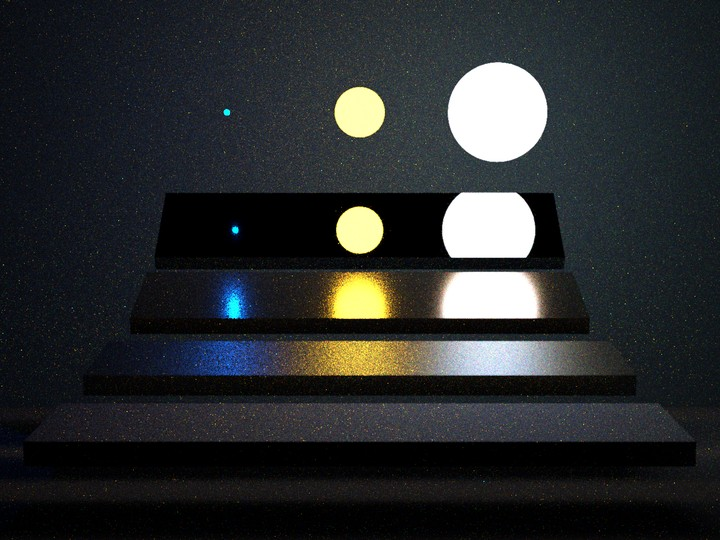
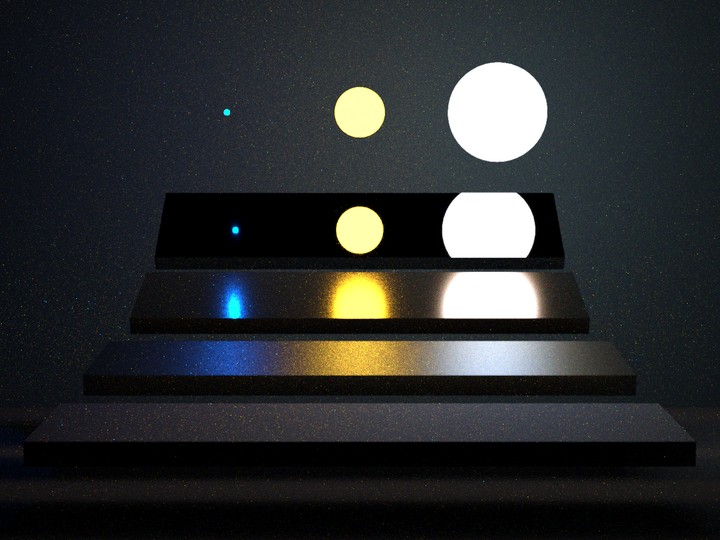
Re-render the GPU gallery with more samples
Every gallery image is re-rendered on c3ffba8 with 4-32x the samples, so little noise remains, and every gallery time (and the sionna_munich time in the performance notes) is re-measured on that build.

Changed region(s): [[0.275, 0.6222, 0.5806, 0.7111], [0.4278, 0.5037, 0.55, 0.5926], [0.3056, 0.5037, 0.3667, 0.5926]]

diff --git a/docs/source/gpu/gallery.rst b/docs/source/gpu/gallery.rst
@@ -3,8 +3,8 @@ Gallery
 =======================================
 
 Scenes rendered on the GPU (an NVIDIA GB10, CUDA + OptiX build), with their render times, as the command line reports them (``Elapsed``).
-The images are the renders' tonemapped outputs, downscaled for this page, unless noted.
-The times of the renders with beams of ``cornell-box/box.xml``, ``sphere_polarization``, ``colourchecker`` and ``bidir_room`` are since the CPU traces the heaviest re-traced paths (``c3ffba8``; see :doc:`performance`), which changes their images only by rounding.
+The images are the renders' tonemapped outputs, downscaled for this page, unless noted, rendered with many samples so that little noise remains.
+All the renders and times are from ``c3ffba8``, where the CPU traces the heaviest re-traced paths (see :doc:`performance`).
 To render one, run, from the repository's root:
 
 .. code-block:: sh
@@ -27,33 +27,33 @@ Scenes of ``scenes/``
    * - ``veach_mis/mis.xml``
      - backward ``plt_path``, beams
      - 1440×1080, RGB
-     - 128
-     - 10.1 s
+     - 512
+     - 39.5 s
    * - ``sionna_etoile/etoile.xml``
      - forward ``plt_path``, beams
      - 1024×768 coverage, 1 GHz
-     - 512
-     - 32.7 s
+     - 2048
+     - 132 s
    * - ``sionna_etoile/etoile.xml`` ``-D optical_preview=true``
      - backward ``plt_path``, beams
      - 512×288, RGB
-     - 64
-     - 1.13 s
+     - 1024
+     - 17.4 s
    * - ``sionna_munich/munich.xml``
      - forward ``plt_path``, beams
      - 960×633 coverage, 1 GHz
      - 128
-     - 18.8 s
+     - 15.6 s
    * - ``diffraction_simple/double_slits.xml``
      - forward ``plt_path``, beams
      - 1024×256, 50 µm
-     - 32
-     - 1.75 s
+     - 256
+     - 13.9 s
    * - ``cornell-box/box.xml``
      - ``plt_bdpt``, rays
      - 512×512, RGB
-     - 256
-     - 5.77 s
+     - 4096
+     - 93.1 s
    * - ``cornell-box/box.xml``
      - ``plt_bdpt``, beams
      - 256×256, RGB
@@ -62,13 +62,13 @@ Scenes of ``scenes/``
    * - ``cornell-box/sphere_polarization.xml``
      - ``plt_bdpt``, rays
      - 384×384, Stokes
-     - 256
-     - 4.44 s
+     - 4096
+     - 70.1 s
    * - ``cornell-box/sphere_polarization.xml``
      - ``plt_bdpt``, beams
      - 192×192, Stokes
-     - 16
-     - 20.7 s
+     - 128
+     - 166 s
    * - ``colourchecker/colourchecker.xml``
      - backward ``plt_path``, beams
      - 192×144, Stokes
@@ -84,25 +84,25 @@ Scenes of ``scenes/``
    :width: 90%
    :align: center
 
-   ``veach_mis``: 1440×1080, 128 samples per pixel, beams, 10.1 s.
+   ``veach_mis``: 1440×1080, 512 samples per pixel, beams, 39.5 s.
 
 .. figure:: ../_static/gpu/etoile_coverage.jpg
    :width: 80%
    :align: center
 
-   ``sionna_etoile``: a 1 GHz coverage map (dB) of an 840 m wide area, 1024×768, 512 samples per element, beams, 32.7 s.
+   ``sionna_etoile``: a 1 GHz coverage map (dB) of an 840 m wide area, 1024×768, 2048 samples per element, beams, 132 s.
 
 .. figure:: ../_static/gpu/etoile_preview.jpg
    :width: 80%
    :align: center
 
-   ``sionna_etoile``, its optical preview: 512×288, 64 samples per pixel, beams, 1.13 s.
+   ``sionna_etoile``, its optical preview: 512×288, 1024 samples per pixel, beams, 17.4 s.
 
 .. figure:: ../_static/gpu/double_slits.png
    :width: 90%
    :align: center
 
-   ``diffraction_simple/double_slits``: the interference pattern (dB) of a double slit, 1024×256, 32 samples per element, beams, 1.75 s.
+   ``diffraction_simple/double_slits``: the interference pattern (dB) of a double slit, 1024×256, 256 samples per element, beams, 13.9 s.
 
 .. grid:: 1 2 3 3
    :gutter: 2
@@ -110,24 +110,24 @@ Scenes of ``scenes/``
    .. grid-item-card:: ``cornell-box/box.xml``, ray tracing
       :img-top: ../_static/gpu/cornell_box_rt.jpg
 
-      ``plt_bdpt``, 512×512, 256 samples per pixel: 5.77 s.
+      ``plt_bdpt``, 512×512, 4096 samples per pixel: 93.1 s.
 
    .. grid-item-card:: ``sphere_polarization``, ray tracing
       :img-top: ../_static/gpu/sphere_polarization_rt.jpg
 
-      ``plt_bdpt``, polarimetric (intensity shown), 384×384, 256 samples per pixel: 4.44 s.
+      ``plt_bdpt``, polarimetric (intensity shown), 384×384, 4096 samples per pixel: 70.1 s.
 
    .. grid-item-card:: ``sphere_polarization``, beams
       :img-top: ../_static/gpu/sphere_polarization_beams.jpg
 
-      ``plt_bdpt`` with beams, 192×192, 16 samples per pixel: 20.7 s. Beams make ``plt_bdpt`` paths tens to hundreds of times costlier (see :doc:`performance`).
+      ``plt_bdpt`` with beams, 192×192, 128 samples per pixel: 166 s. Beams make ``plt_bdpt`` paths tens to hundreds of times costlier (see :doc:`performance`).
 
 
 Test scenes
 -----------
 
 The test scenes of the `Rust bindings <https://github.com/toastertaster/wave_tracers>`_ (``tests/scenes``), whose tests compare GPU and CPU renders, each exercising features the GPU renders.
-All at 256×256 and 256 samples per pixel, with beams.
+All at 256×256 and 4096 samples per pixel, with beams.
 The box scenes are shown with an exposure of their own (scaled to a log-average luminance of 0.18, then sRGB-encoded), as their default tonemapping saturates; the coverage maps with their own tonemapping (dB).
 
 .. grid:: 2 3 5 5
@@ -136,49 +136,49 @@ The box scenes are shown with an exposure of their own (scaled to a log-average 
    .. grid-item-card:: ``box``
       :img-top: ../_static/gpu/test_box.jpg
 
-      Diffuse Cornell box, area light. 1.52 s
+      Diffuse Cornell box, area light. 22.9 s
 
    .. grid-item-card:: ``lights_box``
       :img-top: ../_static/gpu/test_lights_box.jpg
 
-      Point, spot, directional and area emitters. 1.08 s
+      Point, spot, directional and area emitters. 16.7 s
 
    .. grid-item-card:: ``glass_box``
       :img-top: ../_static/gpu/test_glass_box.jpg
 
-      Dielectrics: BK7 glass, tinted water. 1.67 s
+      Dielectrics: BK7 glass, tinted water. 26.2 s
 
    .. grid-item-card:: ``textured_box``
       :img-top: ../_static/gpu/test_textured_box.jpg
 
-      Bitmap textures, normal map. 1.07 s
+      Bitmap textures, normal map. 16.9 s
 
    .. grid-item-card:: ``rough_box``
       :img-top: ../_static/gpu/test_rough_box.jpg
 
-      Rough fractal and gaussian surfaces. 1.29 s
+      Rough fractal and gaussian surfaces. 20.2 s
 
    .. grid-item-card:: ``rgb_box``
       :img-top: ../_static/gpu/test_rgb_box.jpg
 
-      Coloured walls, aluminium mirror, blackbody light. 1.06 s
+      Coloured walls, aluminium mirror, blackbody light. 16.5 s
 
    .. grid-item-card:: ``polarized_box``
       :img-top: ../_static/gpu/test_polarized_box.jpg
 
-      Polarimetric camera (intensity shown, at a log-average of 0.09). 1.01 s
+      Polarimetric camera (intensity shown, at a log-average of 0.09). 15.8 s
 
    .. grid-item-card:: ``coverage``
       :img-top: ../_static/gpu/test_coverage.jpg
 
-      Forward coverage at 1 GHz. 0.49 s
+      Forward coverage at 1 GHz. 7.21 s
 
    .. grid-item-card:: ``lights_coverage``
       :img-top: ../_static/gpu/test_lights_coverage.jpg
 
-      Coverage of every emitter type. 0.68 s
+      Coverage of every emitter type. 10.2 s
 
    .. grid-item-card:: ``two_band_coverage``
       :img-top: ../_static/gpu/test_two_band_coverage.jpg
 
-      Coverage at 1 GHz and 2.4 GHz. 0.51 s
+      Coverage at 1 GHz and 2.4 GHz. 7.79 s

diff --git a/docs/source/gpu/performance.rst b/docs/source/gpu/performance.rst
@@ -537,7 +537,7 @@ Convergence
 -----------
 
 Speed per path is not speed to a clean image.
-Forward ``plt_path`` renders of large coverage maps with narrow beams, such as ``scenes/sionna_munich`` (beam aperture 0.01°), need many samples: at 960×633 pixels and 128 samples per pixel (18.8 s), only about 5% of its pixels receive any contribution, and the far streets fill in only with thousands of samples per pixel.
+Forward ``plt_path`` renders of large coverage maps with narrow beams, such as ``scenes/sionna_munich`` (beam aperture 0.01°), need many samples: at 960×633 pixels and 128 samples per pixel (15.6 s), only about 5% of its pixels receive any contribution, and the far streets fill in only with thousands of samples per pixel.
 ``plt_bdpt`` with beams converges slowly too: ``scenes/cornell-box/box.xml`` takes 11.2 s at 256×256 pixels and 64 samples per pixel, and is still noisy (see :doc:`gallery`).
 
 

diff --git a/docs/source/gpu/gpu.rst b/docs/source/gpu/gpu.rst
@@ -12,7 +12,7 @@ Its results agree with the CPU's statistically, not bit for bit, as the two draw
    :align: center
    :alt: veach_mis rendered on the GPU
 
-.. centered:: ``scenes/veach_mis``, 1440×1080 pixels at 128 samples per pixel, rendered with beams on an NVIDIA GB10 in 10.1 seconds.
+.. centered:: ``scenes/veach_mis``, 1440×1080 pixels at 512 samples per pixel, rendered with beams on an NVIDIA GB10 in 39.5 seconds.
 
 
 Quick start
